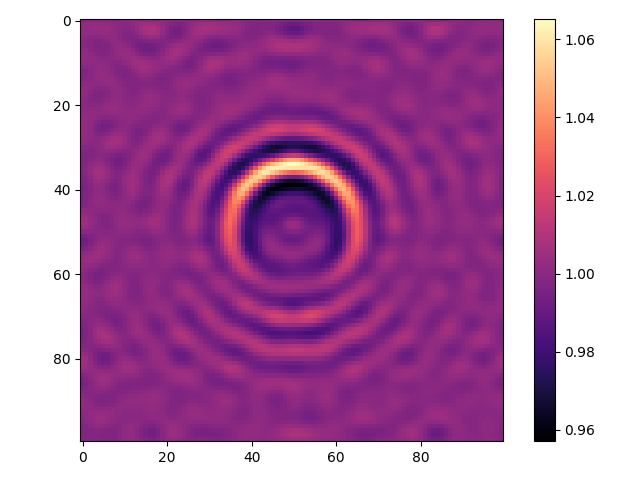
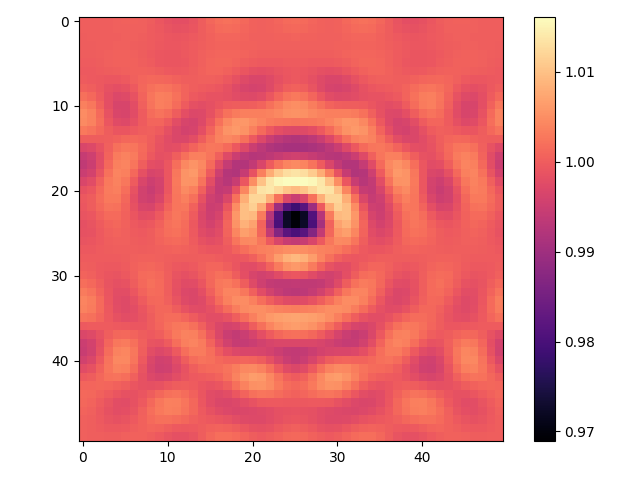
small beads for reconstruction

diff --git a/tests/simulate_reconstruction.py b/tests/simulate_reconstruction.py
@@ -8,7 +8,7 @@ import torch
 
 from python.ssnp_model import SSNPBeam
 
-SHAPE = (64, 100, 100)
+SHAPE = (50, 50, 50)
 RES = (0.2, 0.2, 0.2)
 NA = 0.65
 N0 = 1.33
@@ -43,11 +43,11 @@ def build_angles() -> np.ndarray:
         angles.append([radius * np.cos(theta), radius * np.sin(theta)])
     return np.asarray(angles, dtype=np.float32)
 
-# sphere target
+# small bead target
 def create_target_volume(shape):
     volume = np.zeros(shape, dtype=np.float32)
     depth, height, width = shape
-    radius = 0.20 * min(depth, height, width)
+    radius = 2.5
     z, y, x = np.indices(shape, dtype=np.float32)
     dz = z - 0.5 * depth
     dy = y - 0.5 * height
